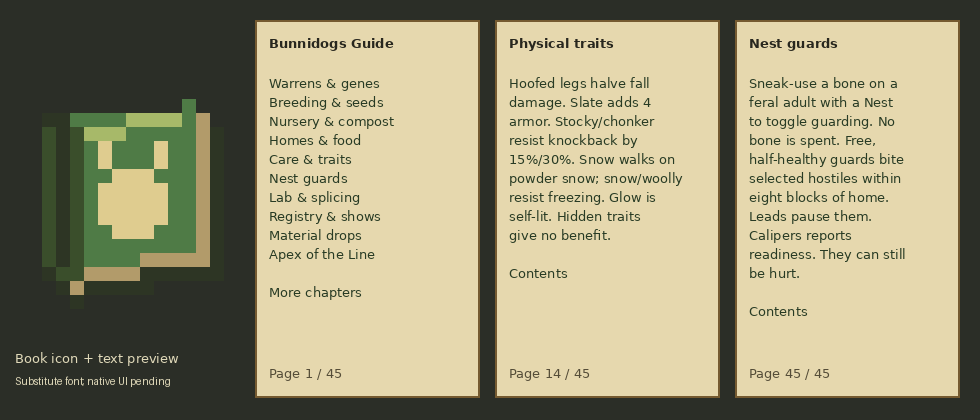
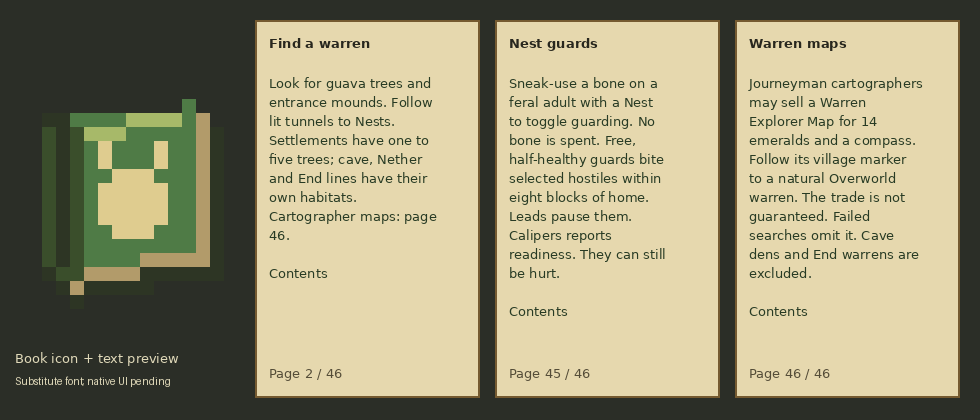
Add native cartographer maps to natural Overworld warrens

diff --git a/art/gen_guide.py b/art/gen_guide.py
@@ -5,7 +5,7 @@ from PIL import Image, ImageDraw, ImageFont
 from gen_syringe import ROOT, RES, write
 
 PAGES = {
-    2: ('Find a warren', 'Look for guava trees and entrance mounds. Follow lit tunnels to the Nests. Settlements have one to five trees; cave, Nether and End lines live in their own habitats.'),
+    2: ('Find a warren', 'Look for guava trees and entrance mounds. Follow lit tunnels to Nests. Settlements have one to five trees; cave, Nether and End lines have their own habitats. Cartographer maps: page 46.'),
     3: ('Genes and stats', 'Each of seven genes has two copies. Dominance picks the visible trait; hidden copies still pass to pups. Bred stat points are separate. Use Calipers to read both.'),
     4: ('Breed a seed', 'Feed a guava to each of two ready adults. They drop one seed holding both parents. Its tooltip shows the planned litter, quality and stat drift. The parents then rest.'),
     5: ('Hatch the litter', 'Plant a seed on farmland; dispensers plant into air above it. Bone meal speeds growth; hand or dispenser Starlit Dust ripens it. Break the ripe crop to hatch pups. Fortune improves quality. Leave room.'),
@@ -48,8 +48,9 @@ PAGES = {
     43: ('Surplus compost', 'Bloom +10 adults compost food above an eight-item reserve at hoe-enabled troughs. Place a composter nearby with a safe route. Crop work takes priority. Each job spends one food and rests a minute. Hoppers collect bone meal.'),
     44: ('Treat a litter', 'Use or dispense one Mutagen at a planted seed or occupied Cradle. Growth, incubation, parents, quality and item details stay intact. Treated or invalid litters keep the vial. You can treat a ripe litter before hatching.'),
     45: ('Nest guards', 'Sneak-use a bone on a feral adult with a Nest to toggle guarding. No bone is spent. Free, half-healthy guards bite selected hostiles within eight blocks of home. Leads pause them. Calipers reports readiness. They can still be hurt.'),
+    46: ('Warren maps', 'Journeyman cartographers may sell a Warren Explorer Map for 14 emeralds and a compass. Follow its village marker to a natural Overworld warren. The trade is not guaranteed. Failed searches omit it. Cave dens and End warrens are excluded.'),
 }
-PAGE_COUNT = 45
+PAGE_COUNT = 46
 MAIN_INDEX = {2:'Warrens & genes',4:'Breeding & seeds',41:'Nursery & compost',8:'Homes & food',11:'Care & traits',45:'Nest guards',15:'Lab & splicing',
               17:'Registry & shows',19:'Material drops',20:'Apex of the Line'}
 MORE_INDEX = {24:'Guava juice',25:'Gardens & stores',27:'Boss forecast',28:'Living harvests',29:'Terrain & fishing',
@@ -100,7 +101,7 @@ def main():
         bold = ImageFont.truetype('DejaVuSans-Bold.ttf',13)
     except OSError:
         font = bold = ImageFont.load_default()
-    for x,page in [(255,1),(495,14),(735,45)]:
+    for x,page in [(255,2),(495,45),(735,46)]:
         d.rectangle((x,20,x+224,397),fill=(230,216,174),outline=(117,90,48),width=2)
         title = 'Bunnidogs Guide' if page == 1 else 'More chapters' if page == 40 else PAGES[page][0]
         d.text((x+14,35),title,font=bold,fill=(40,39,30))

diff --git a/tools/gametest/java/com/bunnidogs/mod/worldgen/PantryGameTest.java b/tools/gametest/java/com/bunnidogs/mod/worldgen/PantryGameTest.java
@@ -21,6 +21,9 @@ import net.minecraft.world.level.block.entity.BlockEntity;
 import net.minecraft.world.level.block.entity.RandomizableContainerBlockEntity;
 import net.minecraft.world.level.levelgen.structure.BoundingBox;
 import net.minecraft.world.level.storage.loot.LootTable;
+import net.minecraft.world.level.storage.loot.LootContext;
+import net.minecraft.world.level.storage.loot.LootParams;
+import net.minecraft.world.level.storage.loot.parameters.LootContextParamSets;
 
 public final class PantryGameTest {
     private PantryGameTest() {}
@@ -38,6 +41,7 @@ public final class PantryGameTest {
     }
     public static void run(GameTestHelper h) {
         var level = h.getLevel();
+        maps(h);
         int index = 0;
         int[] cells = {0,0,0,DenShape.Kind.BARREL.ordinal()};
         for (var style : Lineage.values()) {
@@ -91,6 +95,21 @@ public final class PantryGameTest {
         h.assertTrue(existing.getLootTable() == null && ItemStack.isSameItemSameComponents(keepsake,existing.getItem(0)),
                 "Player stock and its native components must be preserved");
         surface(h);
+    }
+    private static void maps(GameTestHelper h) {
+        var level = h.getLevel();
+        var trades = level.registryAccess().lookupOrThrow(Registries.VILLAGER_TRADE);
+        var trade = trades.getOrThrow(ResourceKey.create(Registries.VILLAGER_TRADE,
+                Identifier.fromNamespaceAndPath("bunnidogs","cartographer/warren_map")));
+        var pool = level.registryAccess().lookupOrThrow(Registries.TRADE_SET).getOrThrow(ResourceKey.create(Registries.TRADE_SET,
+                Identifier.withDefaultNamespace("cartographer/level_3"))).value();
+        h.assertTrue(pool.getTrades().contains(trade) && pool.getTrades().stream().anyMatch(t -> t.is(ResourceKey.create(
+                Registries.VILLAGER_TRADE,Identifier.withDefaultNamespace("cartographer/3/compass_emerald")))),
+                "The native cartographer pool must contain the warren map and retain ordinary trades");
+        var context = new LootContext.Builder(new LootParams.Builder(level).create(LootContextParamSets.EMPTY))
+                .create(java.util.Optional.empty());
+        h.assertTrue(trade.value().getOffer(context) == null,
+                "Native map modifiers must discard an unlocated blank map instead of offering it for sale");
     }
     private static void surface(GameTestHelper h) {
         var level = h.getLevel();

diff --git a/src/main/java/com/bunnidogs/mod/item/FieldGuideItem.java b/src/main/java/com/bunnidogs/mod/item/FieldGuideItem.java
@@ -11,7 +11,7 @@ import net.minecraft.world.item.component.WrittenBookContent;
 
 /** Native book UI/packets, translated pages and local page links; no custom screen or payload. */
 public final class FieldGuideItem extends WrittenBookItem {
-    public static final int PAGE_COUNT = 45;
+    public static final int PAGE_COUNT = 46;
     private static final int MORE_CONTENTS = 40;
     public FieldGuideItem(Properties properties) {
         super(properties.component(DataComponents.WRITTEN_BOOK_CONTENT, content()));

diff --git a/docs/FIELD_GUIDE.md b/docs/FIELD_GUIDE.md
@@ -34,6 +34,8 @@ Page 44 explains in-place hand/dispenser Mutagen, retained incubation and
 success-only costs, including treatment of a ripe litter before hatching.
 Page 45 explains the reusable bone command for feral Nest guards, their
 half-health requirement, bounded defense and Calipers status.
+Page 46 explains native journeyman-cartographer Warren Explorer Maps, price,
+the village marker and Overworld structure limits. Page 2 points to it.
 The home page also covers read-only Nest inspection and persistent compass marks.
 The food page explains short safe nighttime trough meals near home.
 
@@ -46,7 +48,7 @@ containers are not refilled and player inventories are not edited. See
 
 ## Presentation and saves
 
-Forty-five pages use the ordinary written-book screen. The two linked contents pages
+Forty-six pages use the ordinary written-book screen. The two linked contents pages
 offer twenty clickable chapter links. Each chapter links back to its index. Local page changes
 are the only click action. All text is translatable through en_us.json. The
 book stacks to one and appears beside the Calipers in Tools & Utilities.
@@ -65,8 +67,8 @@ resource-pack fonts may differ. The source preview uses a substitute font.
 ## Evidence
 
 The actual Java 25 build and current thirty-nine native server cases pass,
-including loading the book/recipe/loot resources. The expanded 45-page
-contents/physical-trait/guard preview is inspected with a substitute font. Earlier
+including loading the book/recipe/loot resources. The expanded 46-page
+warren/guard/map preview is inspected with a substitute font. Earlier
 pages were shortened using the conservative native text-area estimate.
 Native WrittenBookItem, ServerPlayer, ClientPacketListener and BookViewScreen
 sources establish the ordinary book/packet/click behavior; no new screen or
@@ -99,3 +101,4 @@ compost**; it also returns to page 1. Earlier page numbers remain stable.
 N5 appends treatment page 44 under the same index, returning to page 1.
 L16 appends guard page 45 and a tenth main-index chapter. Both contents pages
 now have ten chapters; earlier page numbers and native links remain stable.
+E1 appends map page 46 under the warren/exploration chapter, returning to page 1.

diff --git a/docs/EXPLORATION_SPECS.md b/docs/EXPLORATION_SPECS.md
@@ -1,0 +1,31 @@
+# Exploration and useful sensory lines
+
+## E1: Warren Explorer Maps
+
+Journeyman cartographers may offer an ordinary filled **Warren Explorer Map**
+for fourteen emeralds and one compass, with twelve uses, ten villager XP and
+native reputation/demand pricing. The offer joins their existing level-three
+pool through an appended vanilla trade tag; two native selections mean it is
+not guaranteed. Existing generated offers, uses and inventories remain intact.
+
+Use Minecraft 26.2's native `villager_trade` data and exploration-map modifier,
+not an obsolete trade event or a new merchant screen. The target tag
+`bunnidogs:on_warren_maps` contains the natural Overworld `warren_village`
+structure. Underground feature dens and End settlements are excluded. Data
+packs can extend the structure tag normally. Search radius fifty and the
+native skip-known-structures rule follow ordinary map behavior; failed
+searches discard the blank result and omit the offer. No emeralds/compass can
+be exchanged for an unlocated map. The normal village marker identifies its
+target, with a translated item name, native biome preview, map data and updates.
+
+This adds an ordinary survival discovery route to warrens without commands,
+forced generation or changes to structure frequency and existing starts. The
+Field Guide's warren chapter points to map instructions. Actual successful
+natural-world discovery and client map rendering remain gameplay review.
+
+E1 evidence (2026-10-18): actual Java 25 build/all 39 native scenarios pass.
+The extended pantry/exploration case reads the loaded native trade set, confirms
+the appended map and retained ordinary compass trade, and calls the real offer
+factory without a located origin: its native filters return no blank-map offer.
+The guide preview is inspected. This does not simulate a successful natural
+structure search or establish client map rendering.

diff --git a/docs/API_NOTES.md b/docs/API_NOTES.md
@@ -183,6 +183,19 @@ Resolved sources, compiler and actual hopper/scheduled-comparator cases pass;
 implementation: `block/FeedingTroughBlockEntity.java`, `FeedingTroughBlock.java`,
 `registry/ModBlocks.java` and `tools/gametest/.../TroughAutomationGameTest.java`.
 
+### Native villager trade data (E1, 2026-10-18)
+
+Minecraft 26.2 loads `villager_trade` and `trade_set` registries from data.
+Add offers through `data/minecraft/tags/villager_trade/<profession>/level_N.json`
+with `replace: false`; existing generated merchant offers remain native saves.
+Trade JSON uses `wants`, optional `additional_wants`, `gives`, `max_uses`, `xp`,
+`reputation_discount` and `given_item_modifiers`. Native cartographer data chains
+`exploration_map`, translated `set_name` and `filtered`/`discard` so an unlocated
+blank map cannot become an offer. The registry decoration is `village_plains`,
+while its texture asset is `plains_village`; these names are not interchangeable.
+Resolved native data/source and the server-loaded pool/failure case establish
+the format. Successful natural-world map discovery still needs gameplay review.
+
 ### Traps that cost time before
 * The javadoc of NeoForge lags behind its code (old event names). Trust class declarations and `import` lines.
 * `registerGoals()` runs inside the super constructor, before any field initializer of the subclass (see `docs/REFERENCE.md` "Conventions"). Fields with initializers are fine for state the super constructor never touches (`Bunnidog.guavaMemory`).

diff --git a/START_HERE.md b/START_HERE.md
@@ -22,6 +22,12 @@ checkpoints/compaction and reserve only the capacity needed to deliver safely.
 
 ## Latest gameplay work — 2026-10-18
 
+- **E1, Warren Explorer Maps:** journeyman cartographers may sell a native
+  map for fourteen emeralds and a compass. The appended trade pool preserves
+  ordinary offers; native map modifiers omit unlocated results. Targets are
+  natural Overworld warrens, using the normal village marker. See
+  `docs/EXPLORATION_SPECS.md` E1.
+
 - **L16, Nest guards:** sneak-use a bone to opt a feral adult with a Nest
   into bounded defense. Saved preference, selected visible hostiles, complete
   dry routes, eight-block home boundary, native bites and lead/health/gene
@@ -123,7 +129,7 @@ storm shelter, fishing, terrain traits, local supplies, living dust and fitted
 farms are also complete. Their rules/evidence remain in the specifications
 listed below; do not redo them.
 
-The native Field Guide has 45 translated pages and twenty chapter links across
+The native Field Guide has 46 translated pages and twenty chapter links across
 two linked contents pages.
 `art/gen_guide.py` owns text/icon/preview; `art/gen_pantries.py` owns eight
 lineage food tables and shares the guide pool. See `docs/FIELD_GUIDE.md`.

diff --git a/README.md b/README.md
@@ -4,7 +4,7 @@ A NeoForge mod for Minecraft 26.2: a baby-faced creature with rabbit ears and a
 dog's body, plus breeding, genetics, guavas, warrens, homes and pedigree tools.
 Requires JDK 25. The checked-in Gradle wrapper selects the project Gradle version.
 
-Craft a vanilla book with any guava for the **45-page Field Guide**, with two
+Craft a vanilla book with any guava for the **46-page Field Guide**, with two
 linked contents pages covering its chapters. Sneak-use
 Calipers for care/work readiness, use a hoe on a Feeding Trough to enable
 resident gardening, and explore food stores for supplies suited to each lineage.
@@ -41,6 +41,7 @@ while retaining their trough, bell and floor Nests.
 Snow coats walk on powder snow and use native escape jumps.
 Sneak-use a bone on a feral adult with a Nest to toggle bounded guarding;
 the command spends no bone. Calipers reports its enabled/paused status.
+Journeyman cartographers may sell native Warren Explorer Maps to Overworld settlements.
 
 ## Build and play
 

diff --git a/docs/ROADMAP.md b/docs/ROADMAP.md
@@ -16,6 +16,11 @@ and mouths, **H3b** house floor Nests. V1a, V1b, H3 and H4 WORK.
 
 ## Latest implemented work (gameplay pending)
 
+E1 adds native journeyman-cartographer Warren Explorer Maps, preserving the
+ordinary trade pool and omitting failed/blank results. The target tag includes
+natural Overworld warrens, with native map saves/markers. The 46-page guide
+explains the route. See `EXPLORATION_SPECS.md`.
+
 L16 adds deliberate bone-command feral Nest guards, off in old saves. Defense
 selects tagged hostiles along loaded safe routes within eight blocks of home,
 with native bites and transport/health/gene interruptions. Calipers shares its
